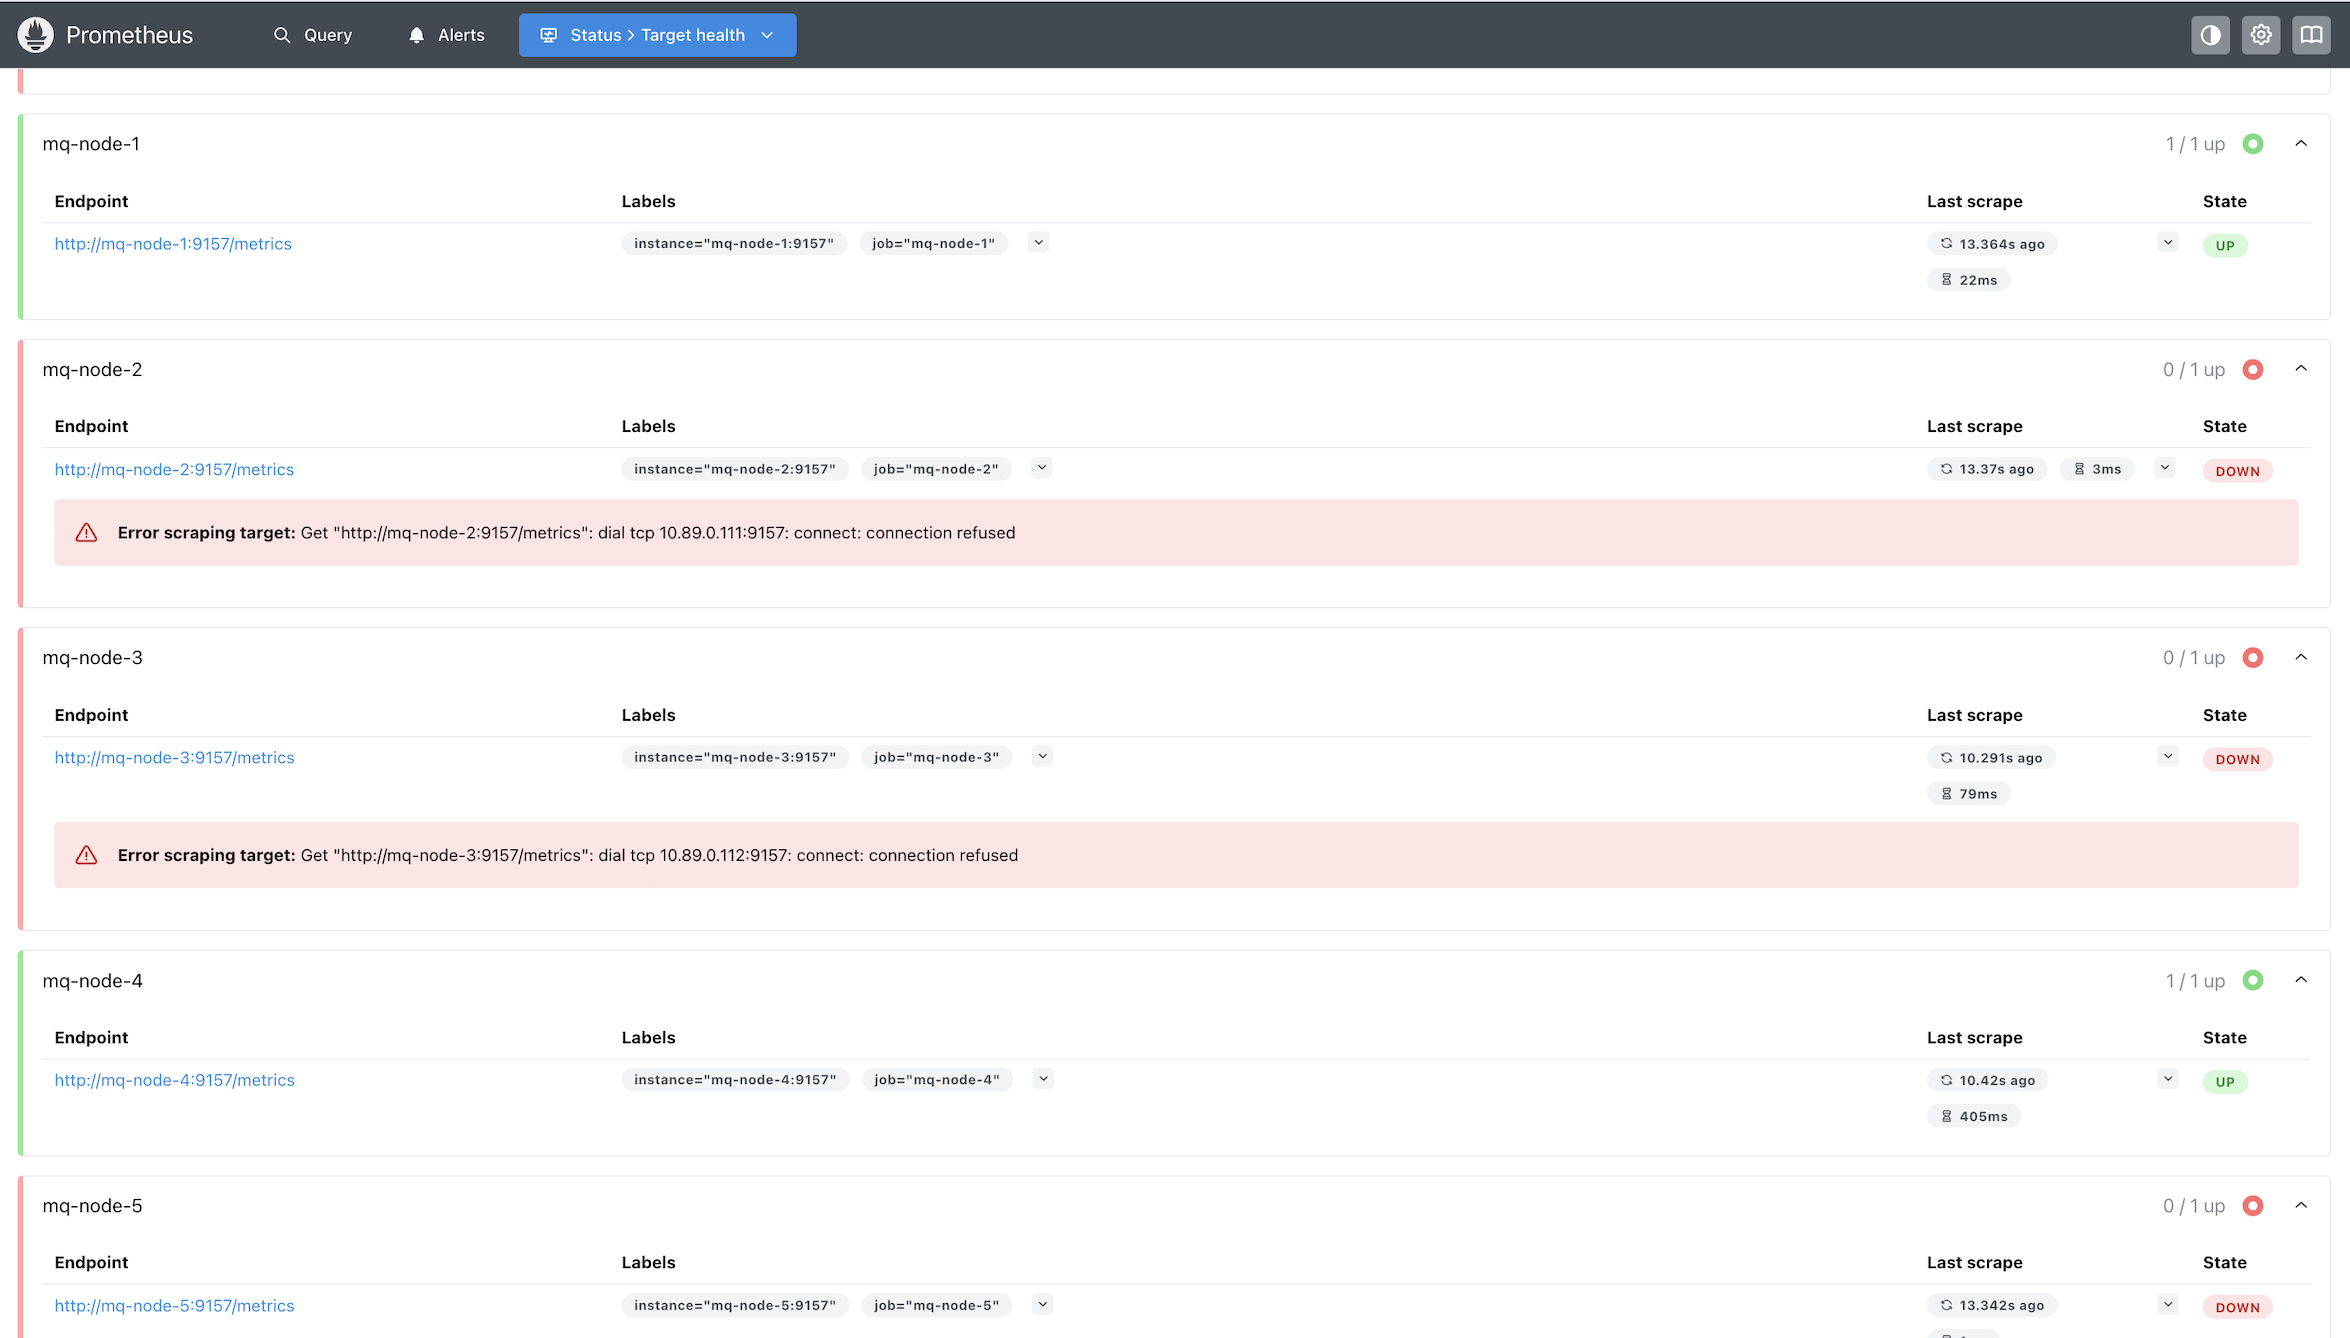
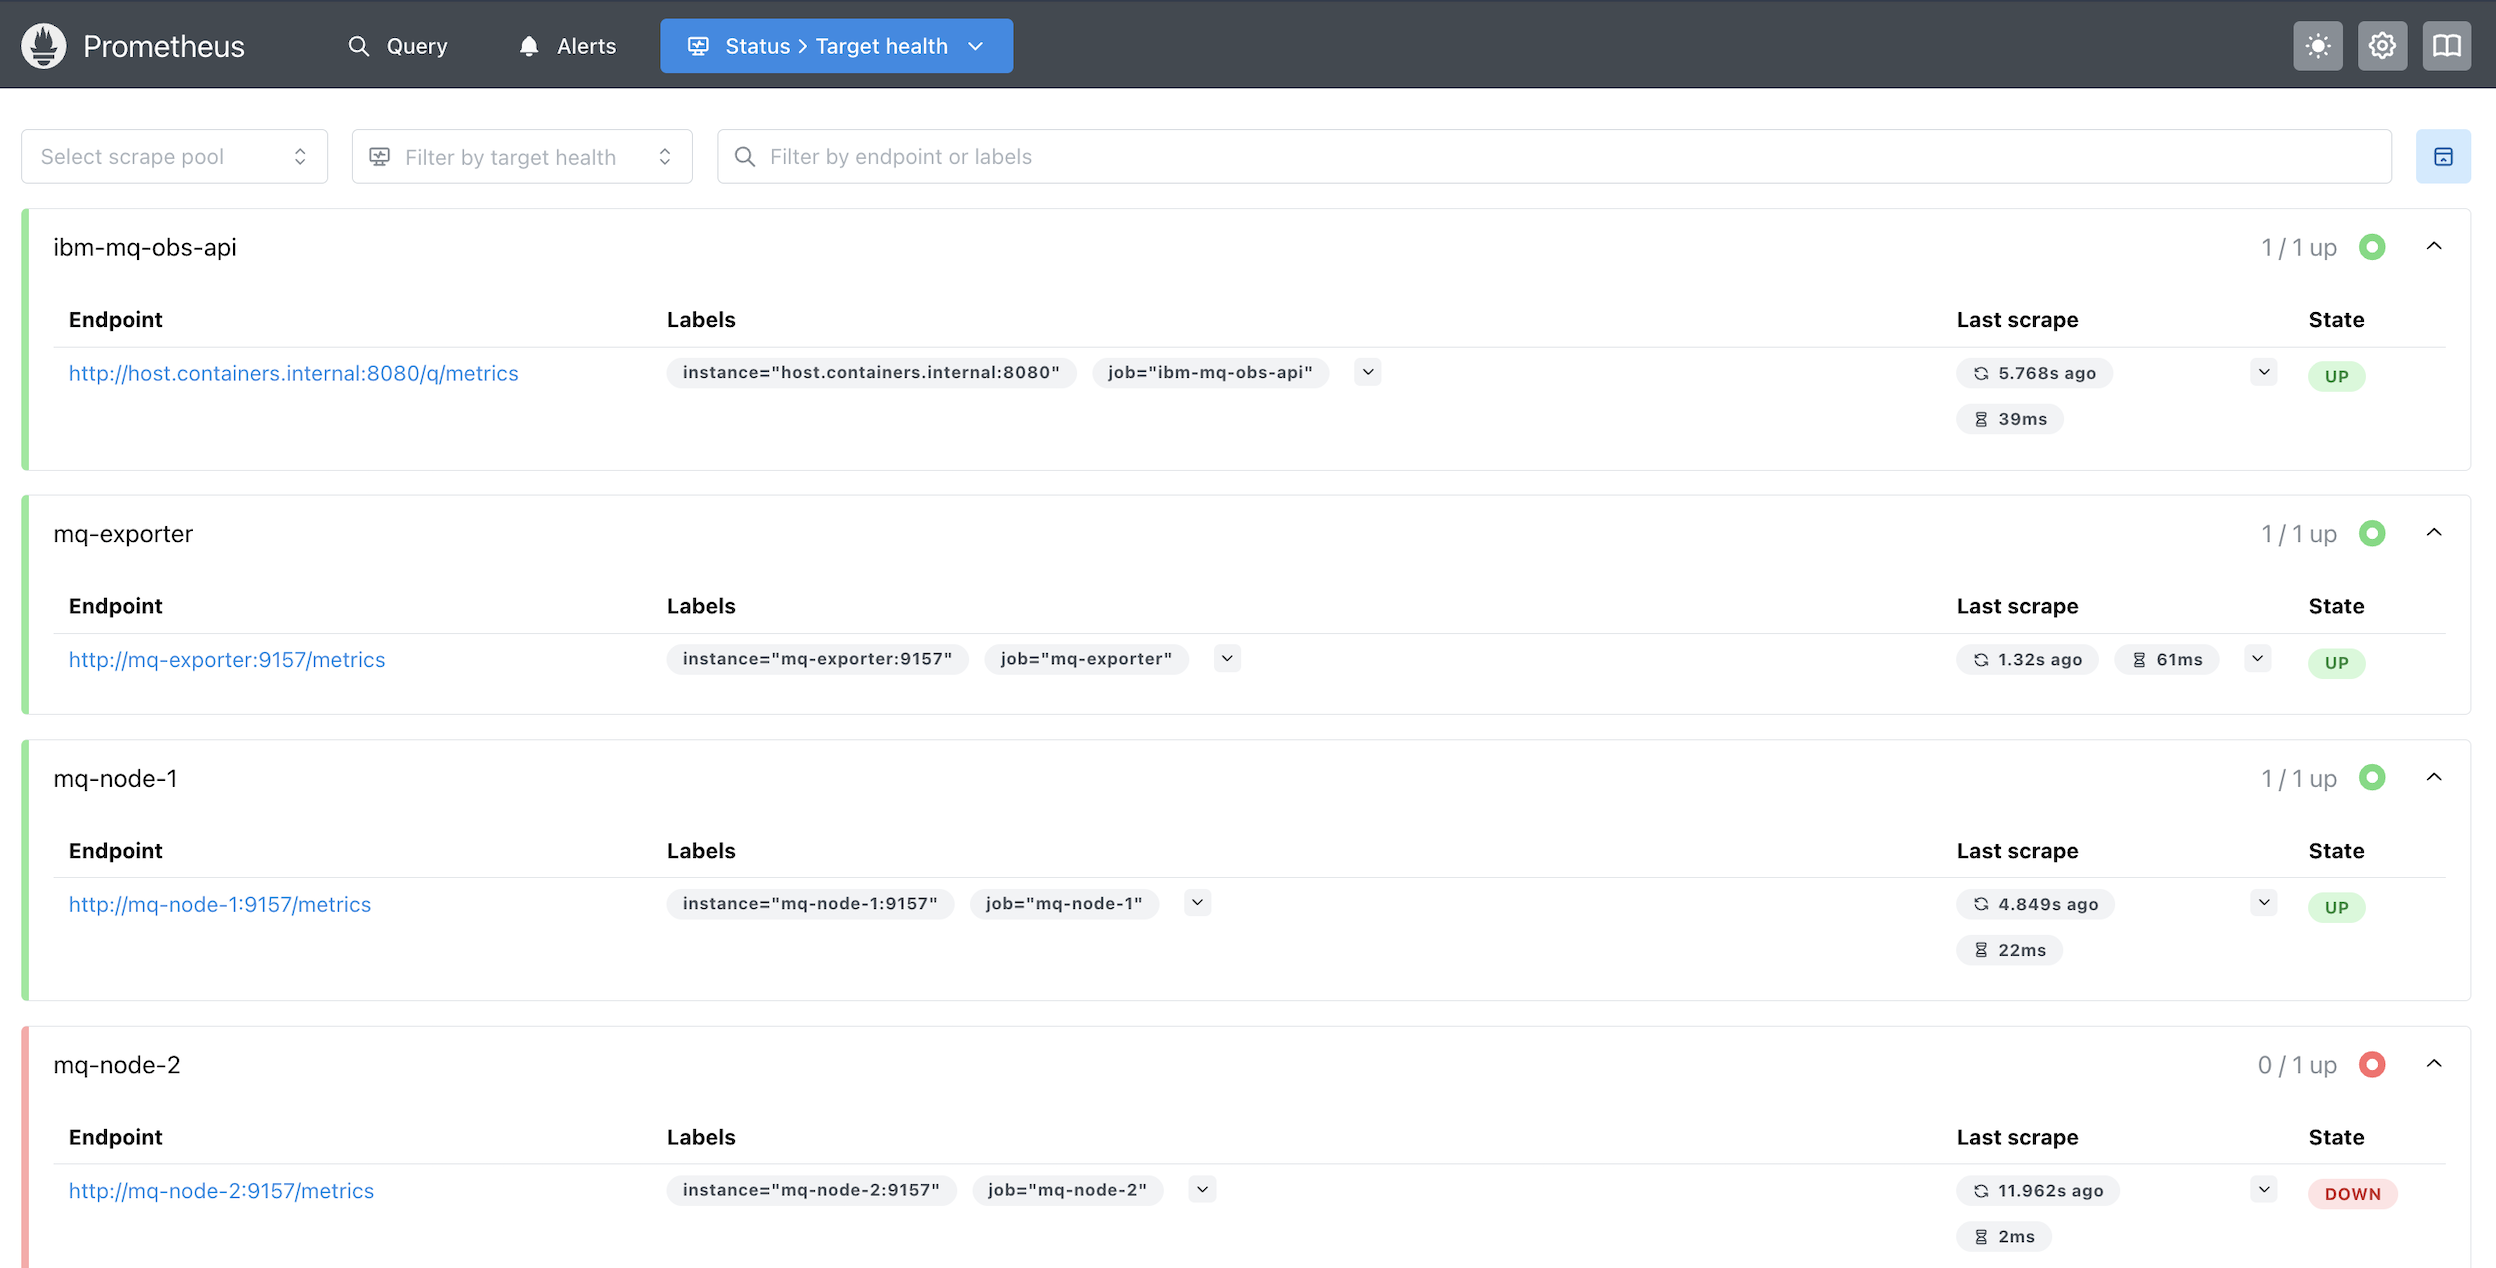
Update PromQL

diff --git a/Metrics-and-OTEL.md b/Metrics-and-OTEL.md
@@ -9,19 +9,19 @@
                │
                │  (via host.containers.internal — exits mq-ha-net to host)
                ▼
-  ┌─────────────────────────────── mq-ha-net (podman network) ──────────────────────────────┐
-  │                                                                                         │
-  │   ┌─────────────────┐   scrape :9157      ┌──────────────────────────────────────────┐  │
-  │   │                 │ ──────────────────► │  mq-node-1  :9157  (Active QM1) ✅ up    │  │
-  │   │   Prometheus    │ - - - - - - - - - ► │  mq-node-2  :9157  (Replica)    ❌ down  │  │
-  │   │   :9090         │ - - - - - - - - - ► │  mq-node-3  :9157  (Replica)    ❌ down  │  │
-  │   │                 │ ──────────────────► │  mq-node-4  :9157  (Active QM2) ✅ up    │  │
-  │   │                 │ - - - - - - - - - ► │  mq-node-5  :9157  (Replica)    ❌ down  │  │
-  │   │                 │ - - - - - - - - - ► │  mq-node-6  :9157  (Replica)    ❌ down  │  │
-  │   │                 │                     └──────────────────────────────────────────┘  │
-  │   └────────┬────────┘                                                                   │
-  │            │ scrape host.containers.internal:8080 /q/metrics                            │
-  └────────────┼────────────────────────────────────────────────────────────────────────────┘
+  ┌───────────────────────────────── mq-ha-net (podman network) ───────────────────────────────┐
+  │                                                                                            │
+  │   ┌─────────────────┐  scrape :9157   ┌──────────────────────────────────────────────────┐ │
+  │   │                 │ ──────────────► │  mq-node-1  :9157  (Active QM1)          ✅ up    │ │
+  │   │                 │ - - - - - - - ► │  mq-node-2  :9157  (Replica)             ❌ down  │ │
+  │   │                 │ - - - - - - - ► │  mq-node-3  :9157  (Replica)             ❌ down  │ │
+  │   │   Prometheus    │                 └──────────────────────────────────────────────────┘  │
+  │   │   :9090         │  scrape :9157   ┌──────────────────────────────────────────────────┐  │
+  │   │                 │ ──────────────► │  mq-exporter :9157 (per-queue depth)     ✅ up   │  │
+  │   │                 │                 │  MQ client → follows the Active node             │  │
+  │   └────────┬────────┘                 └──────────────────────────────────────────────────┘  │
+  │            │ scrape host.containers.internal:8080 /q/metrics                                │
+  └────────────┼────────────────────────────────────────────────────────────────────────────────┘
                │
                │  (via host.containers.internal — exits mq-ha-net to host)
                ▼
@@ -49,27 +49,33 @@ Sample metrics
 |                     Prometheus Metric                     |                Maps to MQ metric               |
 |:---------------------------------------------------------:|:----------------------------------------------:|
 | ibmmq_qmgr_cpu_load_fifteen_minute_average_percentage     | CPU 15-min avg %                               |
-| ibmmq_qmgr_ram_total_estimate_for_queue_manager_megabytes | RAM used by QM                                 |
-| ibmmq_qmgr_log_write_latency_microseconds                 | Log write latency                              |
-| ibmmq_qmgr_log_occupancy_percentage                       | Log disk % used                                |
+| ibmmq_qmgr_ram_usage_estimate_for_queue_manager_bytes     | RAM used by QM (bytes)                         |
+| ibmmq_qmgr_log_write_latency_seconds                      | Log write latency                              |
+| ibmmq_qmgr_log_primary_space_in_use_percentage            | Log primary space % used                       |
 | ibmmq_queue_depth                                         | Current queue depth                            |
-| ibmmq_queue_time_longest_unit_of_work_microseconds        | Oldest msg age                                 |
-| ibmmq_queue_mqput_mqput1_count                            | PUT rate                                       |
-| ibmmq_queue_destructive_mqget_count                       | GET rate                                       |
+| ibmmq_queue_oldest_message_age                            | Oldest msg age                                 |
+| ibmmq_queue_mqput_mqput1_total                            | PUT count                                      |
+| ibmmq_queue_destructive_mqget_total                       | GET count                                      |
 | ibmmq_channel_status                                      | Channel state (MQCHS_* values)                 |
 | ibmmq_channel_status_squash                               | Simplified: 0=stopped, 1=transition, 2=running |
 | ibmmq_channel_bytes_sent                                  | Channel throughput                             |
 
 ### Native HA specific metrics
 
-|               Prometheus Metric               |             Maps to MQ metric             |
-|:---------------------------------------------:|:-----------------------------------------:|
-| ibmmq_nha_role                                | NativeHA active/replica status            |
-| ibmmq_nha_quorum                              | NativeHA quorum count                     |
-| ibmmq_nha_backlog_bytes                       | How far behind a replica is               |
-| ibmmq_nha_synchronous_log_sent_bytes_in_doubt | Log bytes not yet acknowledged by replica |
-| ibmmq_nha_synchronous_log_sent_bytes          | Log bytes replicated synchronously        |
-| ibmmq_nha_replication_backlog_bytes           | Bytes pending replication to replica      |
+|                        Prometheus Metric                        |            Maps to MQ metric            |
+|:---------------------------------------------------------------:|:---------------------------------------:|
+| ibmmq_nha_replication_backlog_bytes                             | Bytes pending replication to a replica  |
+| ibmmq_nha_replication_backlog_average_bytes                     | Rolling-average replication backlog     |
+| ibmmq_nha_replication_synchronous_log_sent_bytes                | Log bytes replicated synchronously      |
+| ibmmq_nha_replication_average_network_round_trip_time_seconds   | Replication network round-trip time     |
+| ibmmq_nha_replication_log_write_average_acknowledgement_latency_seconds | Replica log-write acknowledgement latency |
+| ibmmq_nha_replication_queue_manager_file_system_free_space_percent | QM data filesystem free %             |
+
+> **No direct role/quorum metric.** Native HA does **not** expose an
+> `ibmmq_nha_role` or `ibmmq_nha_quorum` series. Identify the Active node from
+> which node reports `ibmmq_nha_replication_*` (only the Active does) — see the
+> `topk`/`count by (job)` PromQL below — or generate custom gauges from
+> `dspmq -o nativeha` with [`mq-nha-prom.py`](obs-app/etc/mq-nha-prom.py).
 
 ### Native HA behaviour — metrics on Active node only
 
@@ -80,9 +86,6 @@ IBM MQ's web server (and therefore the Prometheus `/metrics` endpoint on port 91
 | `mq-node-1` | Active (QM1) | ✅ open | `up` |
 | `mq-node-2` | Replica | ❌ closed | `down` — connection refused |
 | `mq-node-3` | Replica | ❌ closed | `down` — connection refused |
-| `mq-node-4` | Active (QM2) | ✅ open | `up` |
-| `mq-node-5` | Replica | ❌ closed | `down` — connection refused |
-| `mq-node-6` | Replica | ❌ closed | `down` — connection refused |
 
 This is **expected and correct**. After a failover, whichever node is elected Active starts the web server and Prometheus automatically begins scraping it on the next `scrape_interval` (15 s). No configuration change is needed.
 
@@ -97,12 +100,6 @@ This is **expected and correct**. After a failover, whichever node is elected Ac
 >         for: 30s
 >         annotations:
 >           summary: "All QM1 HA nodes are unreachable — possible full HA-GROUP-1 outage"
->
->       - alert: MQGroup2AllNodesDown
->         expr: count(up{job=~"mq-node-[456]"} == 1) == 0
->         for: 30s
->         annotations:
->           summary: "All QM2 HA nodes are unreachable — possible full HA-GROUP-2 outage"
 > ```
 
 ## Per-queue metrics — mq-metric-samples exporter
@@ -194,34 +191,25 @@ Prometheus started:
 
   ![](images/promql-avg-over-time-replication-backlog.png)
 
-  - Custom [python script](obs-app/etc/mq-nha-prom.py) to write a guage to show quorum and active node
-  
-   Following example show active node is mq-node-2 and mq-node-3 is down
+  - Monitor number of messages in Queue
+  ```
+  ibmmq_queue_depth{queue="DEV.DEMO.QL.IN"}
+  ```
+  ![](images/promql-queue-depth.png)
+
+  - Per-queue % used, labelled by queue name only (drops noisy labels)
   
   ```
-  # HELP ibmmq_nha_quorum_insync Number of in-sync instances
-  # TYPE ibmmq_nha_quorum_insync gauge
-  ibmmq_nha_quorum_insync{qmgr="QM1"} 2
-  # HELP ibmmq_nha_quorum_total Number of configured instances
-  # TYPE ibmmq_nha_quorum_total gauge
-  ibmmq_nha_quorum_total{qmgr="QM1"} 3
-  # HELP ibmmq_nha_instance_role State-as-label for instance role
-  # TYPE ibmmq_nha_instance_role gauge
-  ibmmq_nha_instance_role{qmgr="QM1",instance="node-1",role="Replica"} 1
-  ibmmq_nha_instance_role{qmgr="QM1",instance="node-2",role="Active"} 1
-  ibmmq_nha_instance_role{qmgr="QM1",instance="node-3",role="Replica"} 1
-  # HELP ibmmq_nha_instance_connected Connection active flag (1=yes,0=no)
-  # TYPE ibmmq_nha_instance_connected gauge
-  ibmmq_nha_instance_connected{qmgr="QM1",instance="node-1"} 1
-  ibmmq_nha_instance_connected{qmgr="QM1",instance="node-2"} 1
-  ibmmq_nha_instance_connected{qmgr="QM1",instance="node-3"} 0
-  # HELP ibmmq_nha_instance_insync In-sync flag (1=yes,0=no)
-  # TYPE ibmmq_nha_instance_insync gauge
-  ibmmq_nha_instance_insync{qmgr="QM1",instance="node-1"} 1
-  ibmmq_nha_instance_insync{qmgr="QM1",instance="node-2"} 1
-  ibmmq_nha_instance_insync{qmgr="QM1",instance="node-3"} 0
+  100 * ibmmq_queue_depth
+    / on(qmgr,queue) ibmmq_queue_attribute_max_depth
   ```
-   
+
+  ![](images/promql-percent-used-queue.png)
+
+  - Custom gauges for quorum + active-node role (not exposed as native metrics)
+    are generated by [`mq-nha-prom.py`](obs-app/etc/mq-nha-prom.py) from
+    `dspmq -o nativeha`, written as a node_exporter textfile collector.
+
 
 ### Grafana
 - Start Grafana container with [start-grafana.sh](obs-app/etc/start-grafana.sh)
